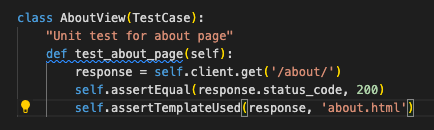
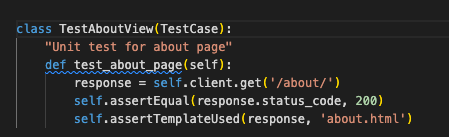
Document forms unit testing in TESTS.md

Changed region(s): [[0.03, 0.0923, 0.9585, 0.9231], [0.03, 0.2769, 0.0899, 0.9231]]

diff --git a/blog/views_test.py b/blog/views_test.py
@@ -10,7 +10,7 @@ class TestIndexView(TestCase):
         self.assertTemplateUsed(response, 'index.html')
 
 
-class AboutView(TestCase):
+class TestAboutView(TestCase):
     "Unit test for about page"
     def test_about_page(self):
         response = self.client.get('/about/')

diff --git a/TESTS.md b/TESTS.md
@@ -14,9 +14,10 @@
 ***
 
 # Unit Testing
-I have performed unit tests for some page views, and forms.
+I have performed unit tests for some page views, and all forms.
 
 ## Views
+These views were tested to ensure the correct page is rendered back to the user. 
 
 - Homepage
 
@@ -33,3 +34,26 @@ I have performed unit tests for some page views, and forms.
 Result: 
 
 ![Unit Test results](./static/unit_tests/views_unit_test_results.png)
+
+## Forms
+All forms were tested to ensure that mandatory fields are identified as such, and that data is submitted to the correct location. 
+
+- Review Form
+
+![Unit Test for Add Review form](./static/unit_tests/test_review_form_1.png)
+
+![Unit Test for Add Review form](./static/unit_tests/test_review_form_2.png)
+
+- Comment Form
+
+![Unit Test for Comment form](./static/unit_tests/test_comment_form.png)
+
+- Contact Form
+
+![Unit Test for Contact form](./static/unit_tests/test_contact_form_1.png)
+
+![Unit Test for Contact form](./static/unit_tests/test_contact_form_2.png)
+
+Result: 
+
+![Unit Test results](./static/unit_tests/forms_unit_test_results.png)
